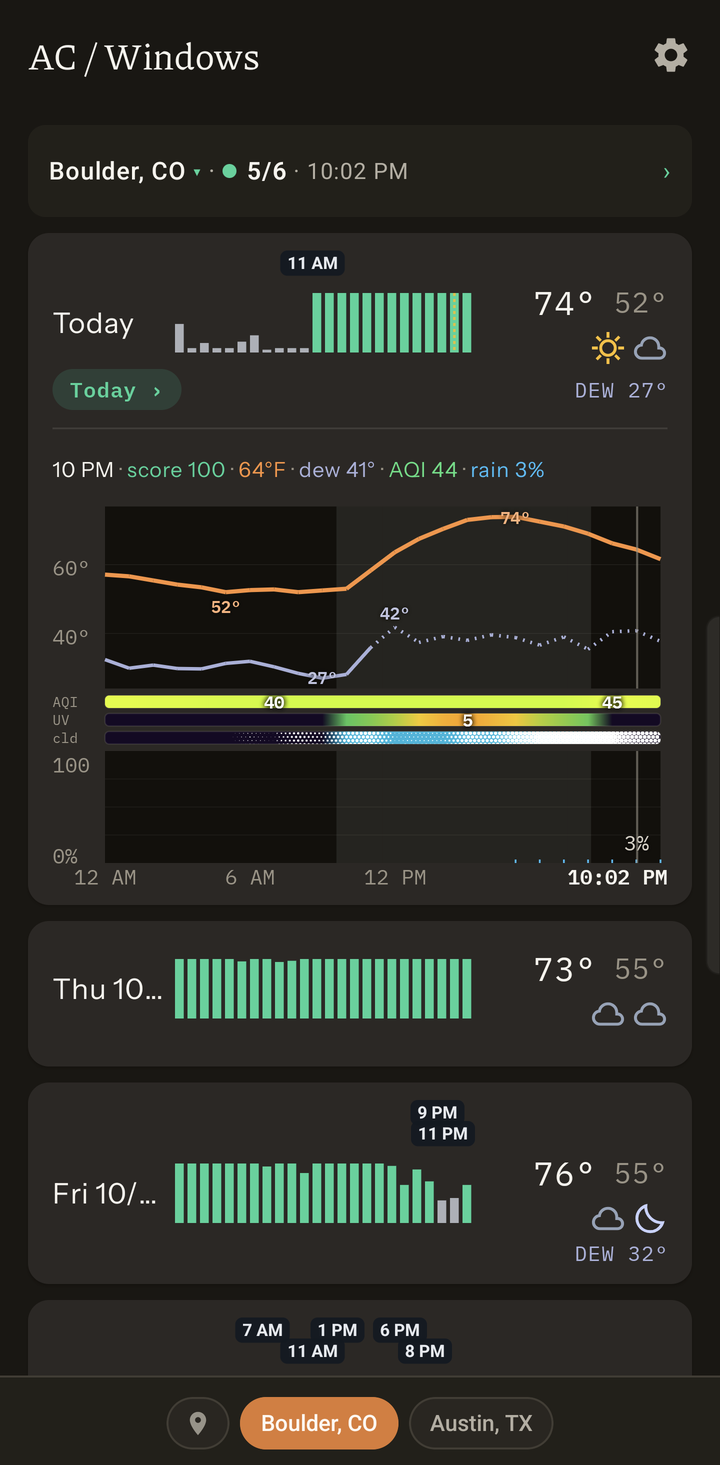
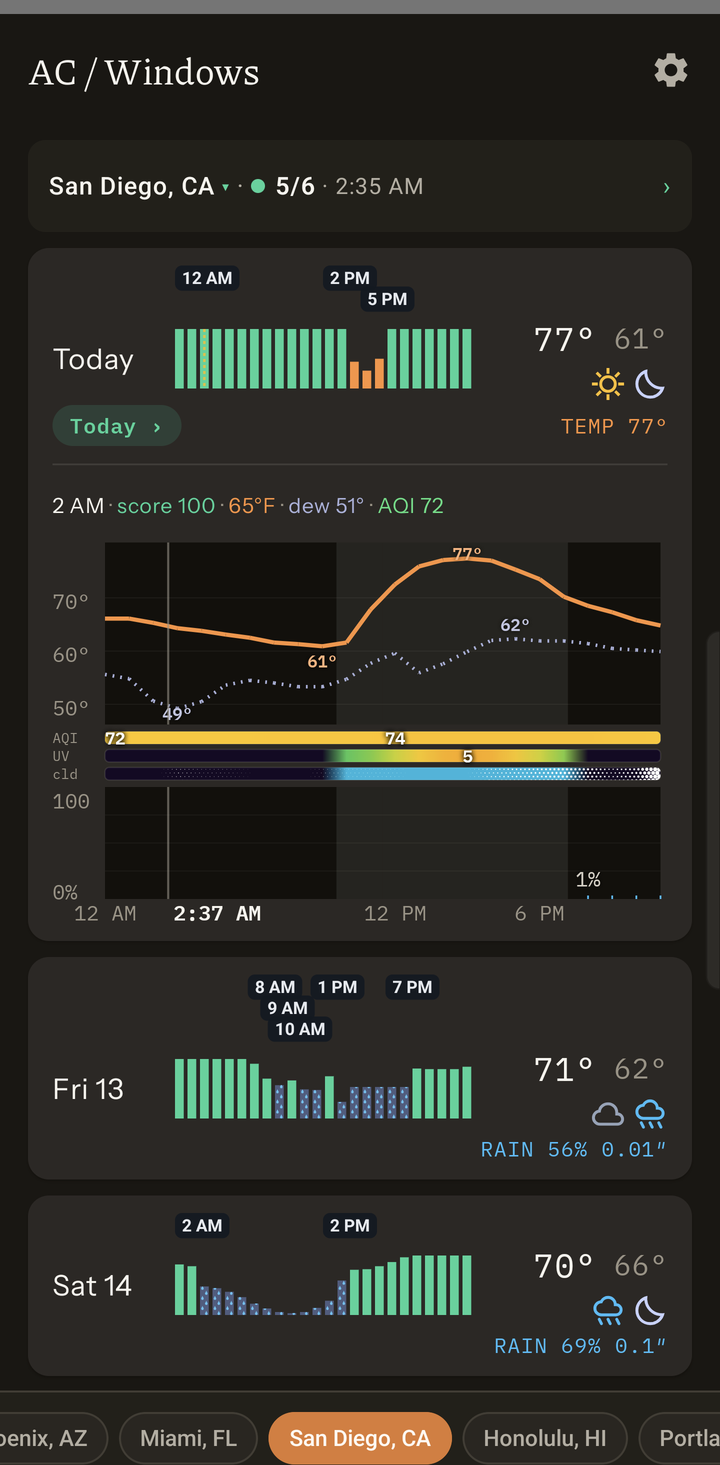
Re-shoot the app screenshots from the current build
Captured on a phone with demo locations. Day labels and stacked hour
pills are as the app now draws them; the two city shots the README no
longer uses are removed.

Claude-Session: https://claude.ai/code/session_01VMdYVZgG31CrBfLH8bugq6

diff --git a/README.md b/README.md
@@ -12,7 +12,7 @@ entirely on the phone: no account, no server, no telemetry.
 <table>
   <tr>
     <td width="33%"><img src="docs/screenshots/forecast.png" alt="Multi-day forecast"></td>
-    <td width="33%"><img src="docs/screenshots/hot-day.png" alt="A hot day in Austin"></td>
+    <td width="33%"><img src="docs/screenshots/hot-day.png" alt="A hot day in Phoenix"></td>
     <td width="33%"><img src="docs/screenshots/sources.png" alt="Data sources panel"></td>
   </tr>
   <tr>
